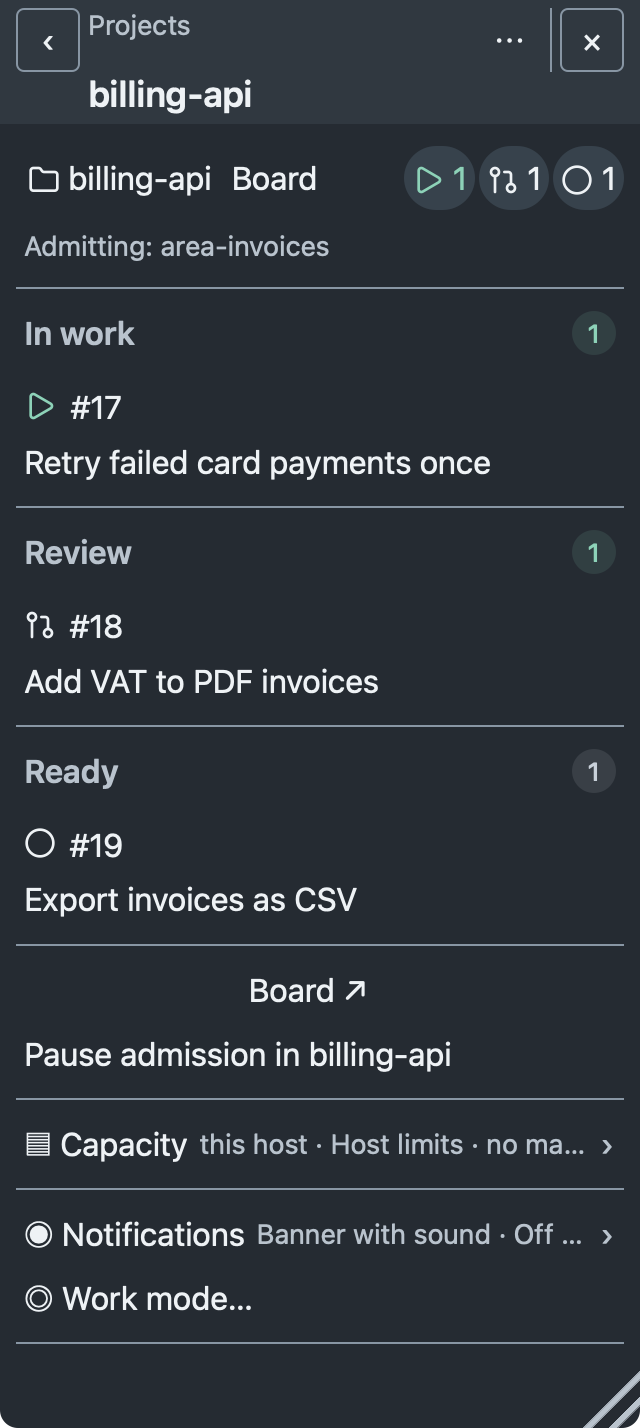
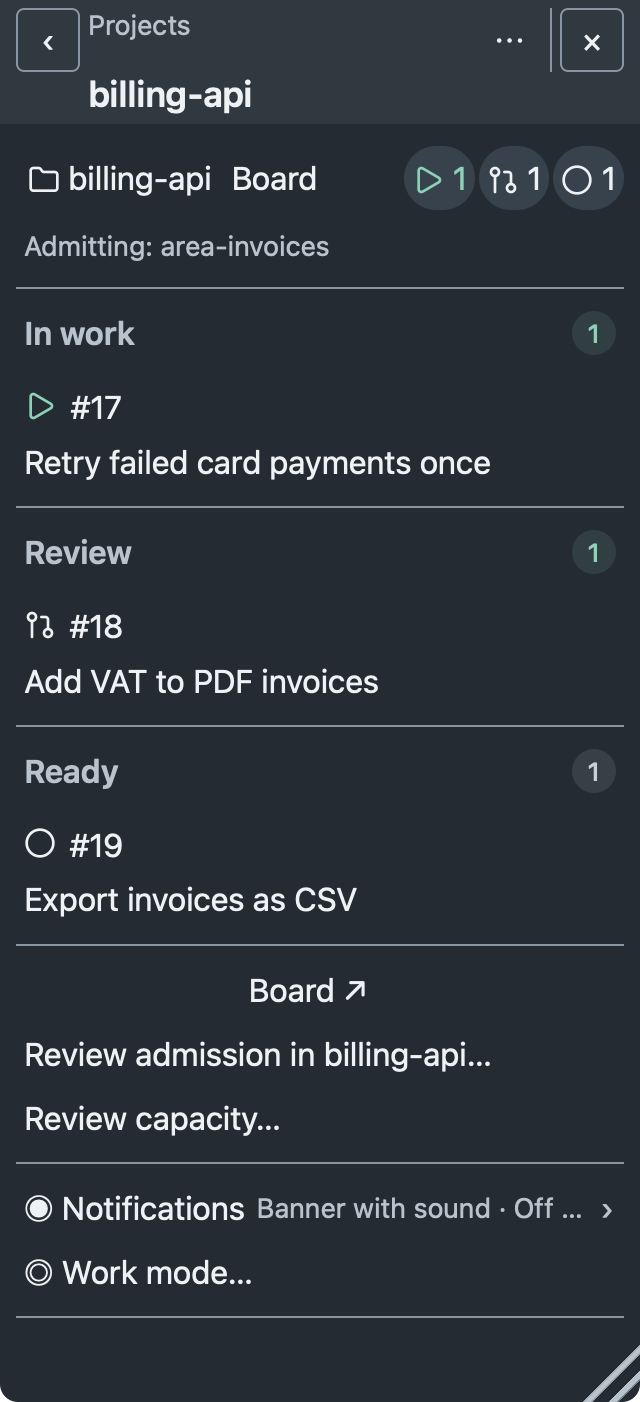
Record workspace review verification and native screenshots
Task: https://github.com/taskqorg/taskq/issues/1465

diff --git a/docs/design/evidence/1465/checks.md b/docs/design/evidence/1465/checks.md
@@ -66,3 +66,29 @@ No production Stop, recovery, policy change, update or project registration was
 performed. WKWebView/WebView2 operation dispatch, native picker window ownership
 and owner actual-size review remain unverified. GitHub publication still needs
 green merge-result `merge_group` CI (§ 7); this worker does not wait for CI.
+
+## Final candidate
+
+Frozen implementation: `a6a69fa9a8603da70533f4aa747fc40a1eb6194f`; rebased on
+`origin/main` at `2f6a2d2c9ac427f9687b64714bd2cfd21805773c`.
+The final canonical gate again failed: Rust 444 passed, 18 failed, 34 ignored;
+163.168 s including setup/build. The 18 failing names match the initial run.
+Worker host-authority refusals remain sandbox-blocked; other assertions are
+unqualified. The gate stopped at Rust, so downstream checks are separate evidence.
+
+All 17 `tests/*.test.cjs` component checks passed separately. The isolated
+`TASKQ_SELFTEST_OFFLINE=1 cargo +stable run --locked -- selftest` passed
+97 fold traces, formats and staged private telemetry capture. Board state was
+intentionally not read; neither the offline selftest nor these fixtures perform
+a production operation.
+
+`docs/shots/update.sh` completed from the frozen implementation in an isolated
+installation. Its WKWebView project-menu and summary-icon captures were opened
+and inspected; the menu has launchers rather than confirmation controls.
+The committed native manifest records the exact source, binary, UI blobs and
+image hashes. These two README images plus the two placement images above make
+four images in this review set (V38). They qualify native menu rendering only;
+workspace dispatch, native picker ownership and actual effects remain unverified.
+`sh docs/shots/check.test.sh` passed the fresh/stale/malformed/missing provenance
+cases. Owner actual-size acceptance is requested through TaskQ; no acceptance is
+inferred from an exported image or a passing test.
